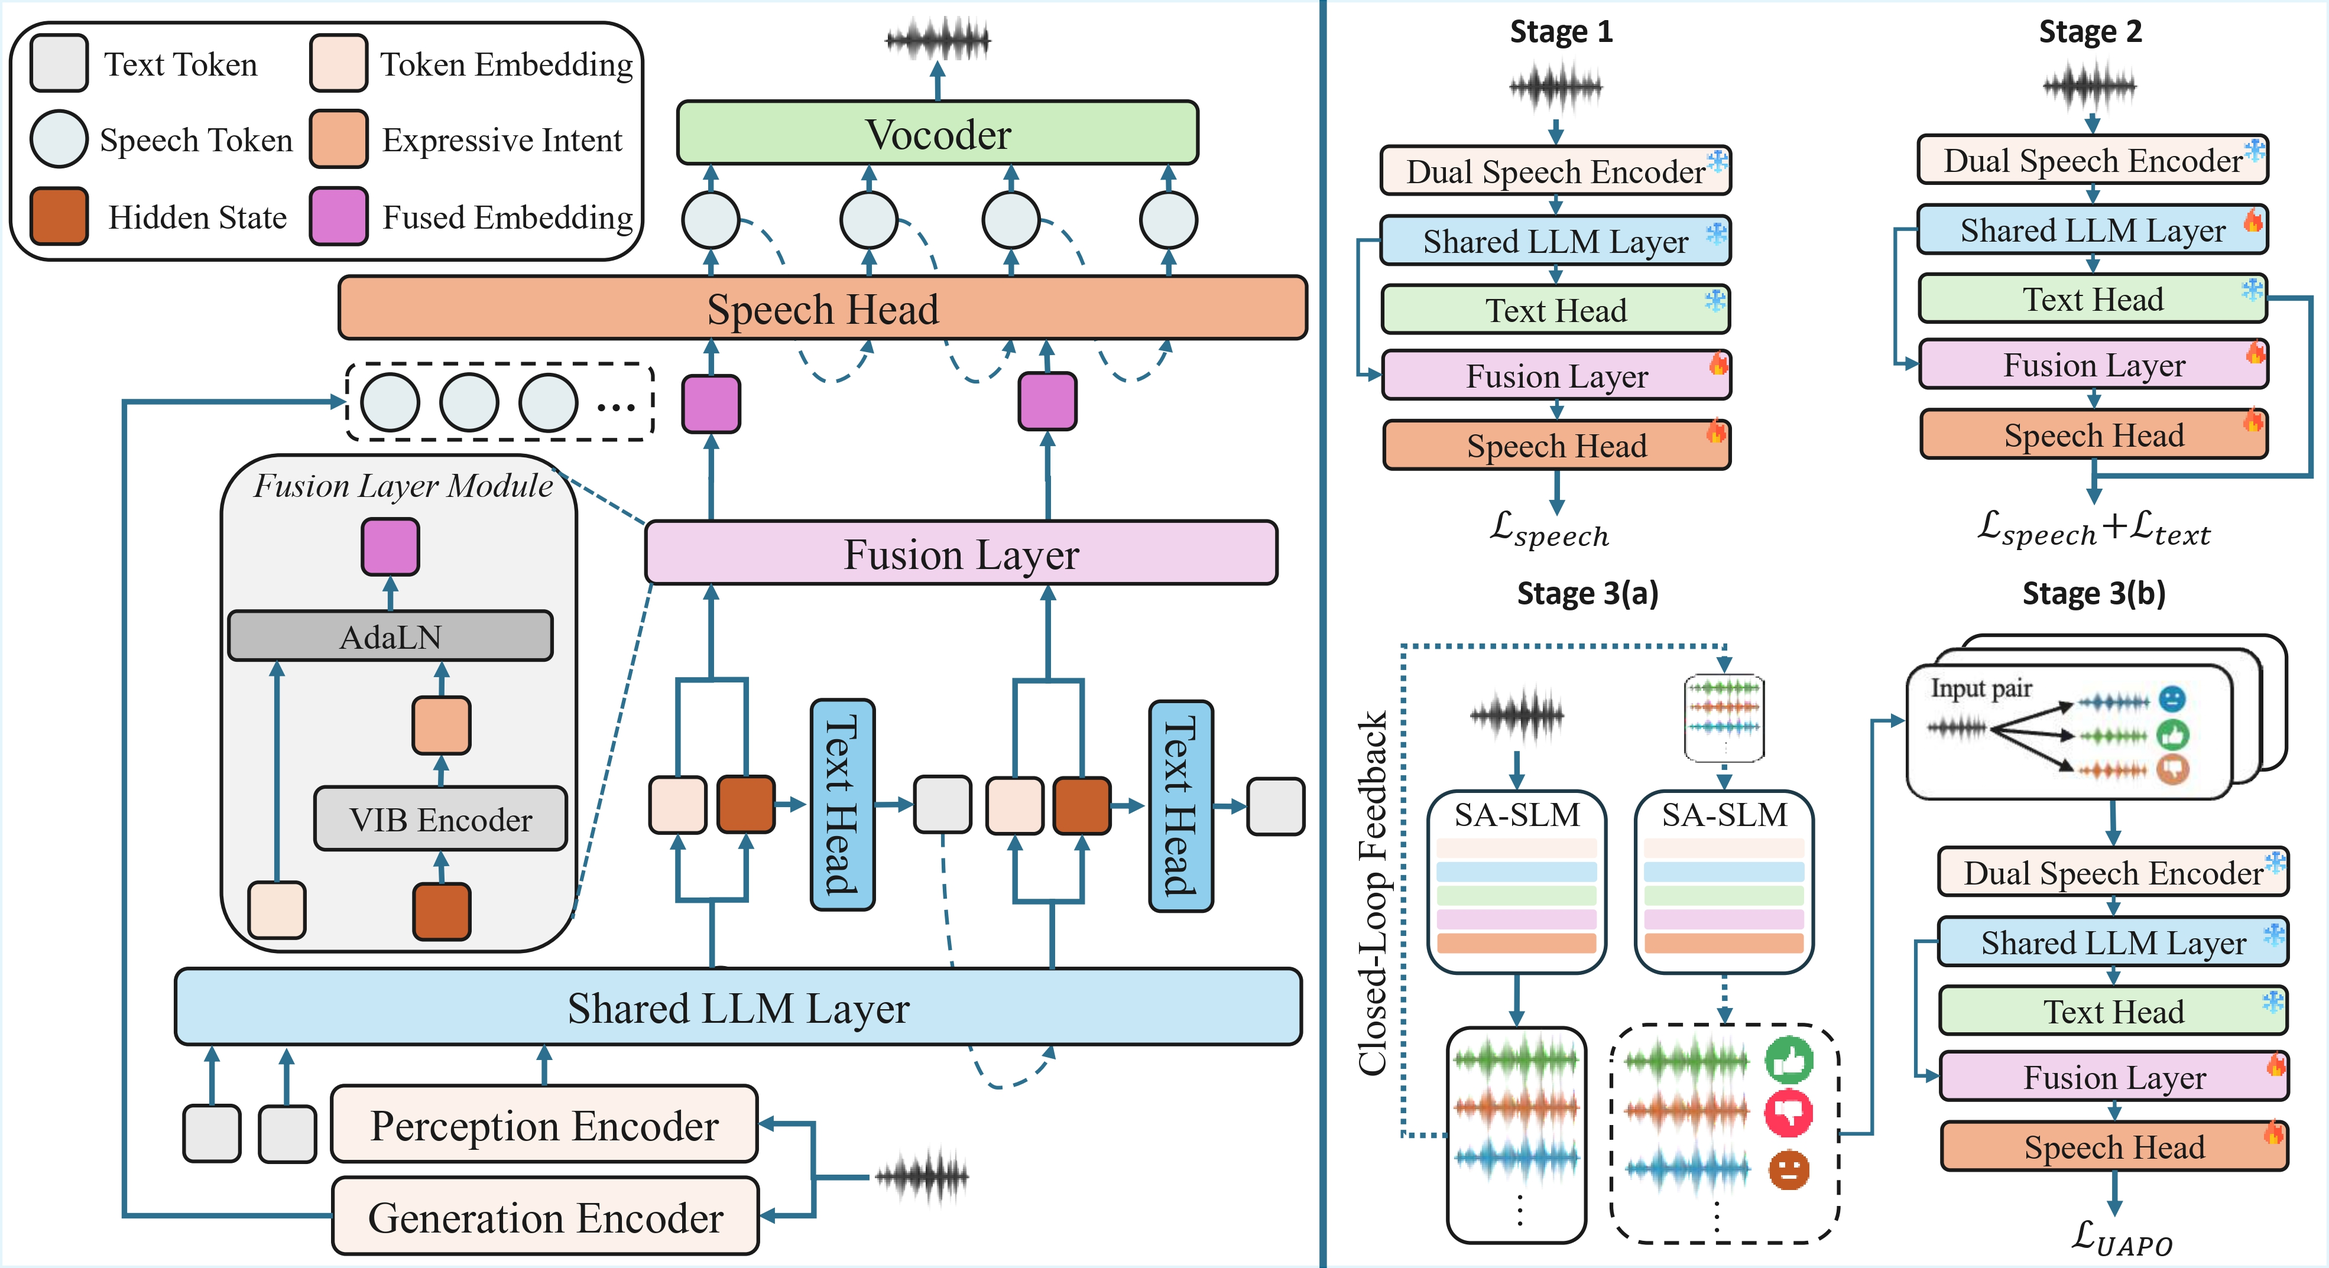
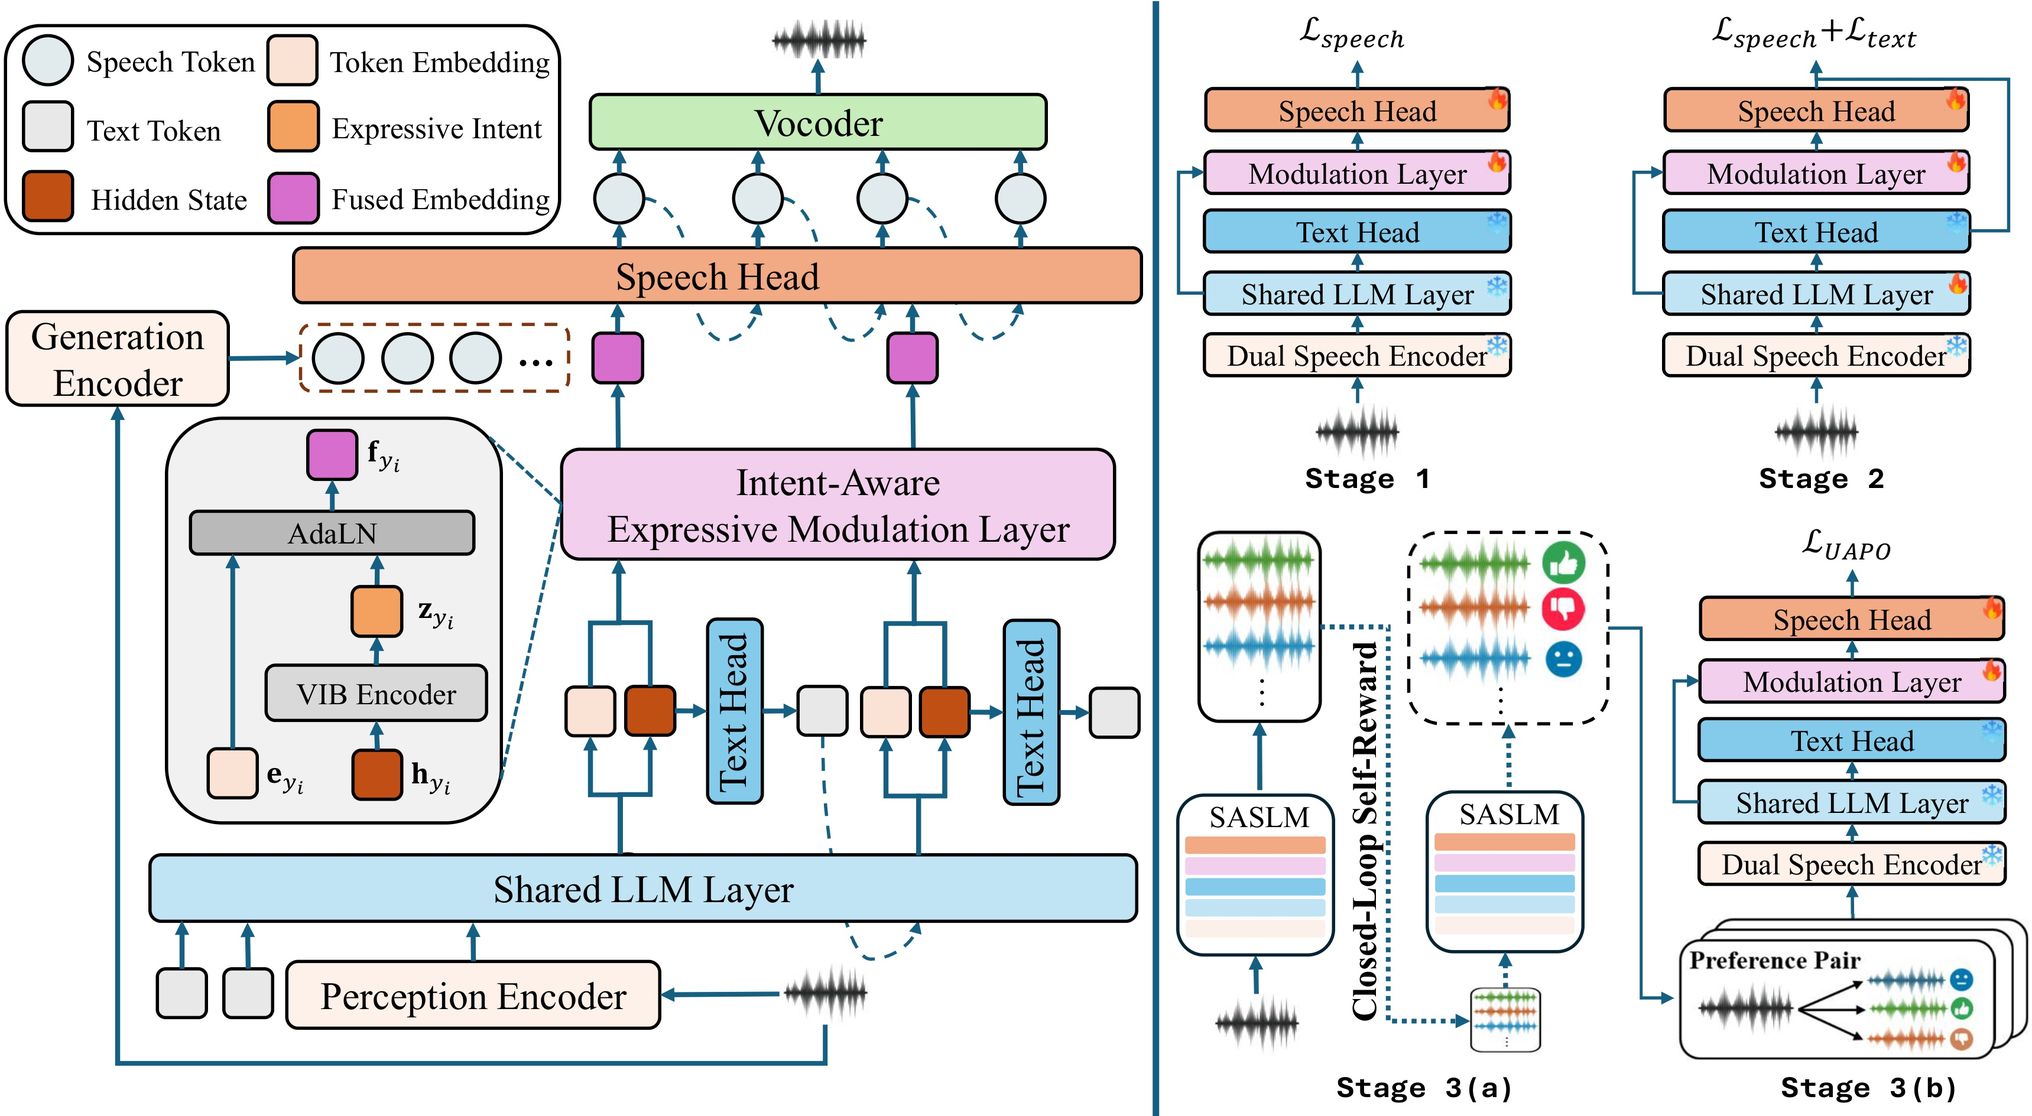
update demo

diff --git a/index.html b/index.html
@@ -3,8 +3,8 @@
 <head>
     <meta charset="UTF-8">
     <meta name="viewport" content="width=device-width, initial-scale=1.0">
-    <title>SA-SLM: Bridging &#x27;What It Thinks&#x27; and &#x27;How It Speaks&#x27;</title>
-    <meta name="description" content="Demo page for SA-SLM: Self-Aware Speech Language Models for Expressive Speech Generation.">
+    <title>SASLM: Bridging What the Model Thinks and How It Speaks</title>
+    <meta name="description" content="Demo page for SASLM: Self-Aware Speech Language Model for Expressive Speech Generation via Self-Aware Intent-Realization Alignment.">
     <style>
         /* ============================================================
            RESET & BASE
@@ -564,15 +564,11 @@
 ================================================================ -->
 <header class="site-header">
     <div class="container">
-        <div class="header-venue">SA-SLM Demo</div>
-        <h1 class="header-paper-title"><span class='grad'>SA-SLM</span>: Bridging &quot;What It Thinks&quot; and &quot;How It Speaks&quot;<br><small style='font-size:.55em;font-weight:400;color:#a0aec0;'>Self-Aware Speech Language Models for Expressive Speech Generation</small></h1>
+        <div class="header-venue">SASLM Demo</div>
+        <h1 class="header-paper-title"><span class='grad'>SASLM</span>: Bridging What the Model Thinks and How It Speaks<br><small style='font-size:.55em;font-weight:400;color:#a0aec0;'>Expressive Speech Generation via Self-Aware Intent-Realization Alignment</small></h1>
         <p class="header-authors">Anonymous Authors</p>
         <p class="header-affiliation">Anonymous Institution</p>
-        <div class="badge-row">
-            <a href="#" class="badge badge-paper" target="_blank" rel="noopener">📄 Paper</a>
-<a href="https://github.com/wangkevin02/SASLM" class="badge badge-code" target="_blank" rel="noopener">💻 Code</a>
-<a href="https://wangkevin02.github.io//SASLM/" class="badge badge-demo" target="_blank" rel="noopener">🎙 Demo</a>
-        </div>
+
     </div>
 </header>
 
@@ -586,28 +582,53 @@
     <section class="section fade-in" id="abstract">
         <span class="section-title">Abstract</span>
         <div class="abstract-card mt-4">
-            While current Speech Language Models (SLMs) possess strong semantic understanding, their generated speech often sounds flat and fails to convey the underlying communicative intent. We term this the <strong>semantic understanding–acoustic realization gap</strong>—a systematic failure to translate <em>what the model thinks</em> into <em>how it speaks</em>.<br><br>To bridge this gap, we introduce <strong>SA-SLM (Self-Aware Speech Language Model)</strong>. SA-SLM is built on the principle that the model is aware of <em>what it thinks</em> during generation and <em>how it speaks</em> during training, thereby continuously aligning its intent with its realization through two core innovations: <strong>(1) Intent-Aware Bridging</strong> via a Variational Information Bottleneck (VIB) to extract stable expressive intent, and <strong>(2) Realization-Aware Alignment</strong>, a closed-loop self-reward mechanism where the model acts as its own critic. Trained on just 800 hours of data, our 3B model approaches GPT-4o-Audio in expressiveness.<br><br><div style='text-align: center; margin-top: 1.5rem;'>  <img src='./framework.jpg' alt='SA-SLM Framework' style='max-width: 100%; border-radius: 8px; box-shadow: 0 4px 12px rgba(0,0,0,0.1);' /></div>
+            Speech Language Models (SLMs) exhibit strong semantic understanding, yet often fail to faithfully realize expressive intent in speech, producing prosody-flattened and emotionally inconsistent responses. We identify this mismatch as the <strong>semantic understanding–acoustic realization gap</strong>.<br><br>
+            To overcome these limitations, we propose <strong>SASLM (Self-Aware Speech Language Model)</strong>, a proxy-free framework that bridges <em>what the model thinks</em> and <em>how it speaks</em> through self-aware intent and realization alignment:
+            <strong>(1) Intent-Aware Bridging</strong> self-distills expressive intent internally from the evolving semantic generation states via a Variational Information Bottleneck (VIB), guiding expressive realization without external expressive supervision; while
+            <strong>(2) Realization-Aware Alignment</strong> reflectively aligns generated acoustics with intended expression through self-reward optimization, progressively improving intent–realization consistency during speech generation.<br><br>
+            Despite using only 3B parameters and 800 hours of expressive speech data, SASLM achieves state-of-the-art performance on EchoMind among open-source systems, surpassing models over 10× larger and approaching commercial systems.<br><br>
+            <div style='text-align: center; margin-top: 1.5rem;'>
+              <img src='./framework.jpg' alt='SASLM Framework' style='max-width: 100%; border-radius: 8px; box-shadow: 0 4px 12px rgba(0,0,0,0.1);' />
+            </div>
         </div>
         
     </section>
 
     
+    <!-- Key Contributions -->
     <section class="section fade-in" id="highlights">
-        <span class="section-title">Key Features</span>
+        <span class="section-title">Key Contributions</span>
         <ul class="feature-list">
-        <li class="feature-item"><span class="feature-icon">🧠</span><div class="feature-body"><strong>VIB-driven Modulation & Self-Reward Alignment</strong><span class="feature-desc">Uses a Variational Information Bottleneck (VIB) to distill stable, utterance-level expressive intent that directly steers speech generation, and employs a label-free self-reward mechanism to critique its own emotion and prosody outputs — enabling closed-loop alignment without external annotations.</span></div></li>
-        <li class="feature-item"><span class="feature-icon">⚡</span><div class="feature-body"><strong>Resource-Efficient &amp; Accessible</strong><span class="feature-desc">Achieves rich, natural expressiveness with only 3B parameters and 800 hours of expressive speech data, making it highly training-friendly and easy to reproduce.</span></div></li>
-        <li class="feature-item"><span class="feature-icon">🏆</span><div class="feature-body"><strong>Approaches GPT-4o-Audio — High Expressive Quality</strong><span class="feature-desc">
-        Expressive quality encompasses <strong>contextually appropriate</strong> 
-        <strong><em>emotion</em></strong> (accurate affect with strong intensity), 
-        <strong><em>prosody</em></strong> (humanlike pausing, stress, and rhythm), and overall
-        <strong><em>naturalness</em></strong>.
-        Our model surpasses all open-source baselines—including models 10× larger (e.g., 30B)—with 
-        +10.58pt emotion alignment and richer pitch variation 
-        (F0-Var: 63.44 vs. 49.76), while closing to within 
-        0.08pt of GPT-4o-Audio in Overall Performance (4.33 vs. 4.41).
-        </span></div></li>
-
+            <li class="feature-item">
+                <span class="feature-icon">🔍</span>
+                <div class="feature-body">
+                    <strong>Identifying the Semantic Understanding–Acoustic Realization Gap</strong>
+                    <span class="feature-desc">Semantic hidden states optimized for text prediction are not inherently aligned with expressive acoustic realization, yielding prosody-flattened responses even with strong semantic understanding. We reformulate this as a self-aware intent and realization alignment problem.</span>
+                </div>
+            </li>
+            <li class="feature-item">
+                <span class="feature-icon">🧠</span>
+                <div class="feature-body">
+                    <strong>Intent-Aware Bridging via VIB</strong>
+                    <span class="feature-desc">A VIB encoder self-distills latent expressive intent from LLM hidden states, disentangling expressive cues from lexical content and injecting them into speech conditioning via AdaLN—without any external emotion labels or style annotations.</span>
+                </div>
+            </li>
+            <li class="feature-item">
+                <span class="feature-icon">🔄</span>
+                <div class="feature-body">
+                    <strong>Realization-Aware Alignment via Closed-Loop Self-Reward</strong>
+                    <span class="feature-desc">SASLM acts as its own critic: it generates multiple rollouts, scores them on emotion, prosody, and naturalness via rubric-based rewards, and optimizes via UAPO—closing the loop between intended expression and generated acoustics without human annotations.</span>
+                </div>
+            </li>
+            <li class="feature-item">
+                <span class="feature-icon">🏆</span>
+                <div class="feature-body">
+                    <strong>State-of-the-Art among Open-Source SLMs</strong>
+                    <span class="feature-desc">Expressive quality covers <strong><em>emotion</em></strong>, <strong><em>prosody</em></strong>, and <strong><em>naturalness</em></strong>. With only 3B parameters and 800h data, SASLM surpasses Qwen3-Omni-30B (10×) in both objective metrics (F0-Var: 63.44 vs. 49.76; EmoAlign: 35.61% vs. 25.03%) and subjective scores (Emo. / Pro. / Nat. / Ovr.: 4.10 / 4.36 / 4.49 / 4.33 vs. 3.87 / 4.11 / 4.30 / 4.25), while approaching commercial systems.</span>
+                </div>
+            </li>
+        </ul>
+    </section>
 
     <!-- Table of Contents -->
     <section class="section fade-in" id="toc">
@@ -628,11 +649,11 @@
 <section class="section fade-in" id="sec-emotion">
     <span class="section-title">Emotional Generation Ability</span>
     <div class="demo-card">
-        <div class="demo-info"><strong>Evaluation on EchoMind Benchmark:</strong> This section presents the experimental results from our paper evaluated on the EchoMind benchmark. To illustrate the model's expressive performance, we sampled one representative data point for each emotion dimension as a demonstration.<br><span class='section-footnote'>Note: <strong>CosyVoice</strong> serves as a TTS baseline, which generates audio using the reference text conditioned on the golden emotion labels.</span> <span class='ours-badge'>SA-SLM (Ours)</span> is highlighted.</div>
+        <div class="demo-info"><strong>Evaluation on EchoMind Benchmark:</strong> Results from our paper on the EchoMind benchmark. One sample is randomly selected per emotion category for demonstration. <strong>CosyVoice2 (TTS w/ Oracle Prompt)</strong> synthesizes speech from the reference reply conditioned on ground-truth emotion labels, serving as an oracle intent-realization baseline. <span class='ours-badge'>SASLM (Ours)</span> is highlighted.</div>
         <div class="cmp-table-wrap">
             <table class="cmp-table">
                 <thead>
-                    <tr><th class="col-emotion">Emotion</th><th class="col-question">Question Speech / Text</th><th class="col-sample">SA-SLM (Ours)</th><th class="col-sample">GPT-4o-Audio</th><th class="col-sample">Qwen3-Omni-30B</th><th class="col-sample">CosyVoice(TTS)</th></tr>
+                    <tr><th class="col-emotion">Emotion</th><th class="col-question">Question Speech / Text</th><th class="col-sample">SASLM (Ours)</th><th class="col-sample">GPT-4o-Audio</th><th class="col-sample">Qwen3-Omni-30B</th><th class="col-sample">CosyVoice2 (TTS w/ Oracle Prompt)</th></tr>
                 </thead>
                 <tbody>
                     <tr><td class="col-emotion"><span class="emo emo-angry">Angry</span></td><td class="col-question"><div class="audio-wrap"><audio controls preload="none"><source src="./emotion/question/angry.wav" type="audio/wav"><source src="./emotion/question/angry.wav" type="audio/mpeg"></audio></div><div class="reply-text">Did you see how the referee handled that match?</div></td><td class="col-sample col-ours"><div class="audio-wrap"><audio controls preload="none"><source src="./emotion/ours/angry.wav" type="audio/wav"><source src="./emotion/ours/angry.wav" type="audio/mpeg"></audio></div><div class="reply-text">Well, I kind of mumbled while watching it. But you know, the way the referee was making decisions, it seemed a bit inconsistent to me. Sometimes he thought a goal was scored when it wasn&#x27;t, and other times he let a foul pass. It really threw things off the balance for both teams. What do you think about how the referee&#x27;s officiating affects the game?</div></td><td class="col-sample"><div class="audio-wrap"><audio controls preload="none"><source src="./emotion/gpt4o/angry.wav" type="audio/wav"><source src="./emotion/gpt4o/angry.wav" type="audio/mpeg"></audio></div><div class="reply-text">Oh, absolutely—I can&#x27;t believe it either! Those decisions were outrageous; the referee really ruined the flow of the game! I&#x27;d be furious, too—how did you feel watching that unfold?</div></td><td class="col-sample"><div class="audio-wrap"><audio controls preload="none"><source src="./emotion/qwen3_30b_omni/angry.wav" type="audio/wav"><source src="./emotion/qwen3_30b_omni/angry.wav" type="audio/mpeg"></audio></div><div class="reply-text">Yeah, I saw it! The calls were all over the place. Felt like the ref was making it up as he went along. What a mess, right?</div></td><td class="col-sample"><div class="audio-wrap"><audio controls preload="none"><source src="./emotion/cosyvoice/angry.wav" type="audio/wav"><source src="./emotion/cosyvoice/angry.wav" type="audio/mpeg"></audio></div><div class="reply-text">Oh, absolutely—I can&#x27;t believe it either! Those decisions were outrageous; the referee really ruined the flow of the game! I&#x27;d be furious, too—how did you feel watching that unfold?</div></td></tr>
@@ -652,11 +673,11 @@
 <section class="section fade-in" id="sec-open-domain">
     <span class="section-title">Open-Domain Conversational Samples</span>
     <div class="demo-card">
-        <div class="demo-info"><strong>Open-Domain Generalization & Practicality:</strong> This section showcases SA-SLM's practical utility across diverse daily topics, including samples with complex <em>speech instructions</em>. Without targeted training, SA-SLM demonstrates strong zero-shot generalization—driven by its <strong>Semantic-Acoustic Alignment</strong>, it naturally produces vivid and contextually appropriate speech. This highlights its potential for real-world applications such as voice acting, advanced conversational TTS, and spoken dialogue dataset construction. <span class='ours-badge'>SA-SLM (Ours)</span> is highlighted.</div>
+        <div class="demo-info"><strong>Open-Domain Generalization &amp; Practicality:</strong> This section showcases SASLM's expressive generalization across diverse daily conversational topics, including samples with complex <em>speech instructions</em>. Without targeted training on these scenarios, SASLM demonstrates strong zero-shot generalization—driven by its <strong>self-aware intent and realization alignment</strong>, it naturally produces vivid and contextually appropriate speech. This highlights its potential for real-world applications such as voice assistants, spoken dialogue systems, and expressive speech dataset construction. <span class='ours-badge'>SASLM (Ours)</span> is highlighted.</div>
         <div class="cmp-table-wrap">
             <table class="cmp-table">
                 <thead>
-                    <tr><th class="col-emotion">Scenario</th><th class="col-question">User Question</th><th class="col-sample">SA-SLM (Ours)</th><th class="col-sample">Qwen3-Omni-30B</th></tr>
+                    <tr><th class="col-emotion">Scenario</th><th class="col-question">User Question</th><th class="col-sample">SASLM (Ours)</th><th class="col-sample">Qwen3-Omni-30B</th></tr>
                 </thead>
                 <tbody>
                     <tr><td class="col-emotion"><span class="emo emo-neutral">🙏 Sincere Apology</span></td><td class="col-question"><div class="reply-text">You made a serious mistake at work that affected your whole team.</div></td><td class="col-sample col-ours"><div class="audio-wrap"><audio controls preload="none"><source src="./open_domain/ours/apology_sincere.wav" type="audio/wav"><source src="./open_domain/ours/apology_sincere.wav" type="audio/mpeg"></audio></div><div class="reply-text">I&#x27;m really sorry, everyone. I know I made a huge mistake at work that really hurt the whole team. I should have been more careful and more responsible. I&#x27;m so sorry for the confusion and the inconvenience it caused. I&#x27;ll do my best to make it up to you all. I&#x27;ll work extra hard to make sure it doesn&#x27;t happen again. Please give me a chance to make it right.</div></td><td class="col-sample"><div class="audio-wrap"><audio controls preload="none"><source src="./open_domain/qwen3omni/apology_sincere.wav" type="audio/wav"><source src="./open_domain/qwen3omni/apology_sincere.wav" type="audio/mpeg"></audio></div><div class="reply-text">Go on a start by saying, &quot;How deeply sorry I am for the mistake I made it work.&quot; It&#x27;s not just a small oversight. It&#x27;s something that impacted all of you, and I take full responsibility. I know that the team&#x27;s efforts were affected, and that&#x27;s the last thing anyone should have to deal with because of my error. I didn&#x27;t mean for this to happen, and I&#x27;m truly embarrassed and disappointed in myself for letting everyone down. You&#x27;ve all shown up with dedication and hard work, and I fail to meet that standard. I&#x27;m not just offering empty words, I&#x27;m committed to making this right, I&#x27;ll do whatever it takes to fix the situation. Whether that means stepping up to handle extra tasks, staying late to catch up, or helping in any way I can to restore what was lost. I also want to make sure this doesn&#x27;t happen again. I&#x27;m reviewing my process, asking for feedback, and I&#x27;m open to any suggestions you might have to help me improve. Thank you for your patience, your understanding, and for carrying the weight of this was such professionalism. I&#x27;m grateful to work with all of you and I promise to earn back your trust through my actions, not just my words.</div></td></tr>
@@ -683,7 +704,7 @@
 ================================================================ -->
 <footer class="site-footer">
     <div class="container">
-        <p>SA-SLM Demo</p>
+        <p>SASLM Demo</p>
         <p style="margin-top:6px;font-size:.82em;">Questions? Open an issue on <a href="https://github.com/wangkevin02/SASLM">GitHub</a>.</p>
     </div>
 </footer>
